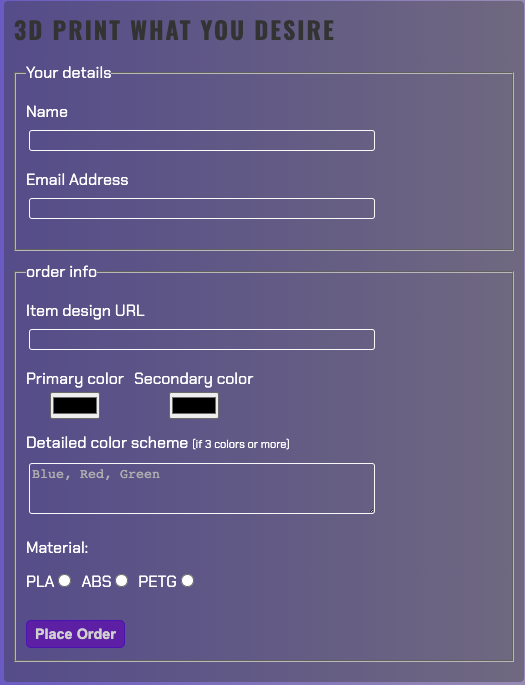
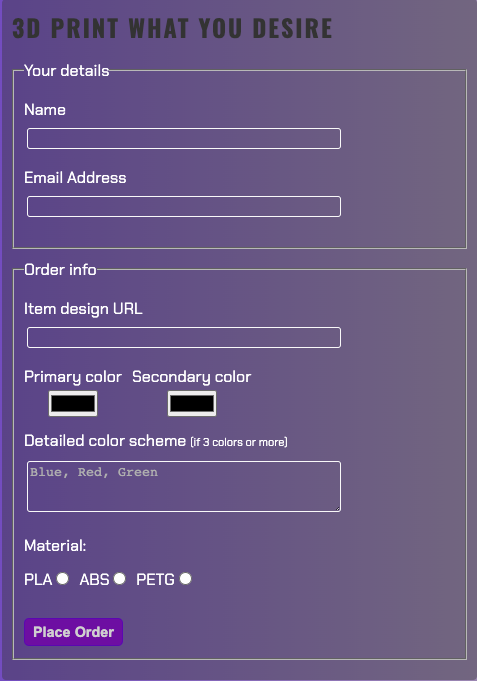
readme, added all screenshots

Changed region(s): [[0.0, 0.0, 1.0, 1.0], [0.7044, 0.6784, 0.7338, 0.7709], [0.7044, 0.2775, 0.7338, 0.3084]]

diff --git a/Contact.html b/Contact.html
@@ -43,7 +43,7 @@
         <!--contact section-->
         <section id="contact">
             <form id="contact-form" action="https://formdump.codeinstitute.net" method="post">
-                <h2>Inquery zone. We're ready to answer!</h2>
+                <h2>Inquiry zone. We're ready to answer!</h2>
                 <div>
                     <label class="labels" for="name">Name</label>
                     <br>
@@ -57,20 +57,20 @@
                     <br>
                 </div>
                 <div>
-                    <label for="issue">Subject of inquery:</label>
+                    <label for="issue">Subject of inquiry</label>
                     <br>
                     <input class="text-input" id="issue" list="issue-subjects" name="issue" required>
                     <br>
                     <datalist id="issue-subjects">
                         <option value="Product quality">
-                        <option value="un-delivered product">
-                        <option value="other">
+                        <option value="Un-delivered product">
+                        <option value="Other">
                     </datalist>
                 </div>
                 <div>
-                    <label for="issue-desciption">Inquery</label>
+                    <label for="issue-desciption">Inquiry</label>
                     <br>
-                    <textarea class="text-input" name="issue-desciption" id="issue-desciption" placeholder="Type your inquery..." rows="3" ></textarea>
+                    <textarea class="text-input" name="issue-desciption" id="issue-desciption" placeholder="Type your inquiry..." rows="3" ></textarea>
                     <br>
                 </div>
                 <input class="link-button" id="order-button" type="submit" value="Submit ">

diff --git a/product.html b/product.html
@@ -166,7 +166,7 @@
                         </div>
                     </fieldset>
                     <fieldset>
-                        <legend>order info</legend>
+                        <legend>Order info</legend>
                         <div>
                             <label for="item-url">Item design URL</label>
                             <br>

diff --git a/README.md b/README.md
@@ -13,6 +13,7 @@ Our website includes various features that enhance its usability and promote a f
 
 ### Existing Features
 
+
 - __Navigation Bar__
 
   - Featured on all three pages, the full responsive navigation bar includes links to the Logo, Home page, Services and Contact page and is identical in each page to allow for easy navigation.
@@ -21,11 +22,15 @@ Our website includes various features that enhance its usability and promote a f
   ![Nav Bar](https://github.com/Ahmadk-g/Codeinsitute-PP1/blob/main/assets/images/navbar.png)
 
 
+
   - On a mobile screen, the navigation menu opens and closes with a toggle button.
+
 
   ![Nav Bar mobile closed](https://github.com/Ahmadk-g/Codeinsitute-PP1/blob/main/assets/images/navbar-toggle.png)
   ![Nav Bar mobile open](https://github.com/Ahmadk-g/Codeinsitute-PP1/blob/main/assets/images/navbar-toggle-open.png)
 
+
+### Home Page 
 
 - __The landing page image__
 
@@ -33,7 +38,10 @@ Our website includes various features that enhance its usability and promote a f
   - This section shows a strong contrast of colors to enhance the impact of the user's visual experience.
   - A text overlay that makes a play on words to highlight our mission to translate imagination into reality.
 
-![Landing Page](https://github.com/Ahmadk-g/Codeinsitute-PP1/blob/main/assets/images/hero-image.png)
+
+  ![Landing Page](https://github.com/Ahmadk-g/Codeinsitute-PP1/blob/main/assets/images/hero-image.png)
+
+
 
 - __Get Started Section__
 
@@ -41,7 +49,10 @@ Our website includes various features that enhance its usability and promote a f
   - A linked button leads the user to our services page to get started. It also has a hover effect on laptops.
   - The button is a feature that allows easy navigation through our website.
 
-![Get Started](https://github.com/Ahmadk-g/Codeinsitute-PP1/blob/main/assets/images/getstarted.png)
+
+  ![Get Started](https://github.com/Ahmadk-g/Codeinsitute-PP1/blob/main/assets/images/getstarted.png)
+
+
 
 - __About Us Section__
 
@@ -49,16 +60,22 @@ Our website includes various features that enhance its usability and promote a f
   - The text gives the user a closer idea about our identity as a company and introduces the team that carries our mission.
   - This section is written in a non-formal language to provide the user with a friendly and emotionally close experience.
 
-![About Us](https://github.com/Ahmadk-g/Codeinsitute-PP1/blob/main/assets/images/aboutus.png)
+
+  ![About Us](https://github.com/Ahmadk-g/Codeinsitute-PP1/blob/main/assets/images/aboutus.png)
+
+
 
 - __The Footer__ 
 
   - The footer section includes links to the relevant social media sites for Imagine3D The links will open to a new tab to allow easy navigation for the user. 
   - The footer is valuable to the user as it encourages them to keep connected via social media
 
-![Footer](https://github.com/Ahmadk-g/Codeinsitute-PP1/blob/main/assets/images/footer.png)
 
-- __Services Page__
+  ![Footer](https://github.com/Ahmadk-g/Codeinsitute-PP1/blob/main/assets/images/footer.png)
+
+
+
+### Services Page__
 
   - The 'Services' page guides the user through the steps to order and receive our products.
   - On tablets and larger screens, a 'Technologies' section appears, providing users with information about the technologies used by Imagine3D.
@@ -69,11 +86,15 @@ Our website includes various features that enhance its usability and promote a f
   - This section only appears in tablets and larger screens by the use of media queries, since it has no functionalities. 
   - It contains extra information about the technologies used by imagine3D to help give the user a deeper understanding of our process.
 
-![Technologies section](https://github.com/Ahmadk-g/Codeinsitute-PP1/blob/main/assets/images/technologies-section.png)
+
+  ![Technologies section](https://github.com/Ahmadk-g/Codeinsitute-PP1/blob/main/assets/images/technologies-section.png)
+
 
   - On laptop screens and larger a video is included in this section
 
-![Technologies section with video](https://github.com/Ahmadk-g/Codeinsitute-PP1/blob/main/assets/images/technologiesw-video.png)
+
+  ![Technologies section with video](https://github.com/Ahmadk-g/Codeinsitute-PP1/blob/main/assets/images/technologiesw-video.png)
+
 
 
 - __Steps section__
@@ -81,12 +102,15 @@ Our website includes various features that enhance its usability and promote a f
   - This section is a guide for the user on how to use our website and services.
   - contains three step points. 'Choose Design', 'Fill Order Form', and 'Recieve and Enjoy'.
   - When pressed on the first two steps the user will be transferred to the relevent sections.
+
   
   ![Steps section](https://github.com/Ahmadk-g/Codeinsitute-PP1/blob/main/assets/images/steps-section.png)
 
+
   - On a mobile screen, an image is included in this section to enhance the aesthetic and further captivate and excite the user.
 
-  ![Steps section mbile screen](https://github.com/Ahmadk-g/Codeinsitute-PP1/blob/main/assets/images/stepsw-image-section.png)
+
+  ![Steps section mobile screen](https://github.com/Ahmadk-g/Codeinsitute-PP1/blob/main/assets/images/stepsw-image-section.png)
 
 
 
@@ -96,20 +120,49 @@ Our website includes various features that enhance its usability and promote a f
   - An STL (Standard Tessellation Language) file is a common 3D file format used for 3D printing, representing a three-dimensional model as a collection of interconnected triangles.
   - The word 'trusted' is used to help the user feel safe and confident when downloading files from the given websites.
   
-  ![Technologies section](https://github.com/Ahmadk-g/Codeinsitute-PP1/blob/main/assets/images/sites-section.png)
+
+  ![STL websites section](https://github.com/Ahmadk-g/Codeinsitute-PP1/blob/main/assets/images/sites-section.png)
+
 
 
   - __Form section__
 
-  - ...
+  - The 'Order' form contains two fieldsets: one for customer details and the other for the desired product.
+  - The user needs to fill a text input with the URL of the file and choose the colors and material.
   
-  ![Technologies section](https://github.com/Ahmadk-g/Codeinsitute-PP1/blob/main/assets/images/sites-section.png)
 
-- __The Sign Up Page__
+  ![Order form section](https://github.com/Ahmadk-g/Codeinsitute-PP1/blob/main/assets/images/form-section.png)
 
-  - This page will allow the user to get signed up to Love Running to start their running journey with the community. The user will be able specify if they would like to take part in road, trail or both types of running. The user will be asked to submit their full name and email address. 
 
-![Sign Up](https://github.com/lucyrush/readme-template/blob/master/media/love_running_signup.png)
+  - On a laptop screen and larger, the two section align differently.
+
+
+  ![Sites and Order form aligned](https://github.com/Ahmadk-g/Codeinsitute-PP1/blob/main/assets/images/sites-form-section.png)
+
+
+
+### Contact Page
+
+- The Contact page is designed to be simple and direct for the user.
+
+- __Contact page background__
+
+- With this image, I aimed to include the same color scheme and contrast intensity, providing the user with a similar feeling to the rest of the website.
+- The image consists of a 3D printer in operation, sharing the same context as the hero image on the landing page.
+
+
+![Contact page background image](https://github.com/Ahmadk-g/Codeinsitute-PP1/blob/main/assets/images/3dprinter-contacthero.png)
+
+
+
+- __Contact Form__
+
+- The contact form is available for users to submit any inquiries they may have.
+
+
+![Inquiry form](https://github.com/Ahmadk-g/Codeinsitute-PP1/blob/main/assets/images/inquiry-form.png)
+
+
 
 For some/all of your features, you may choose to reference the specific project files that implement them.
 
